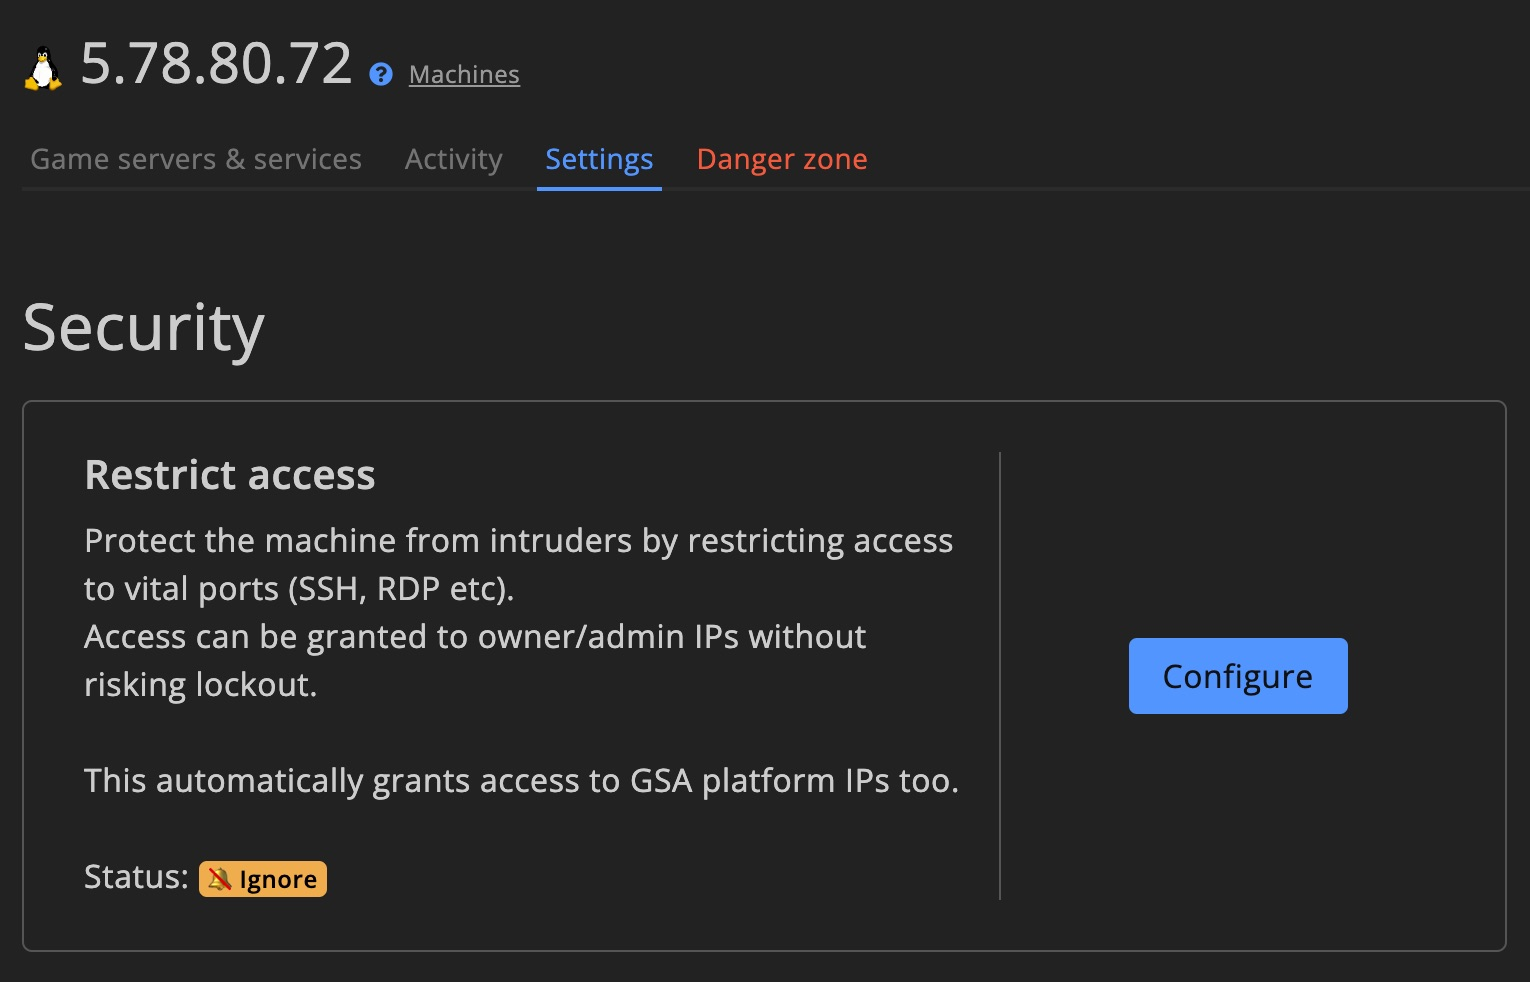
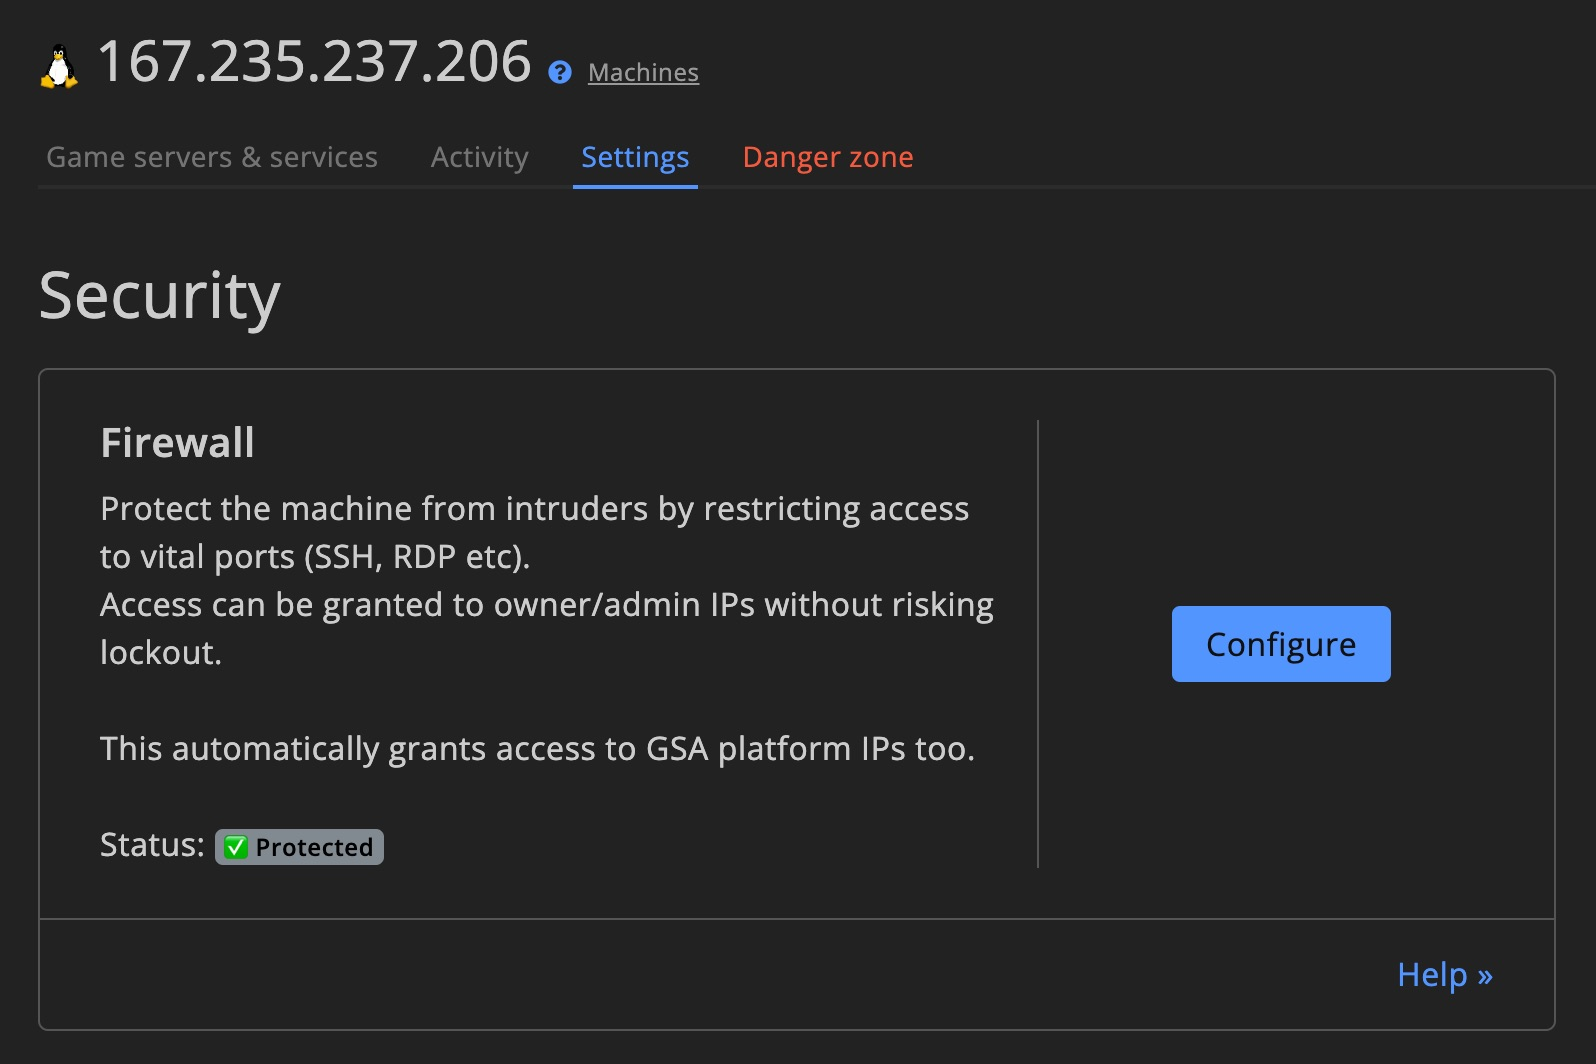
blueprint start + restrict acces -> firewall

diff --git a/Documentation/docs/dashboard/machines/getting_started.md b/Documentation/docs/dashboard/machines/getting_started.md
@@ -66,14 +66,14 @@ While we agree that having to enter Steam credentials and disabling Steam Guard 
 
 ![Machine settings - steam download credentials](/img/dashboard/machines/getting_started/machine_steam_download_credentials.jpg)
 
-### Restrict access
+### Firewall
 This will automatically configure the firewall on the machine and block any unwanted connections to the machine, without affecting player connections.
 You can add other IP addresses (like your home IP) to the list, which will let traffic from that IP address bypass the firewall rules.
 
-When you don't want to use this feature, you can select `Ignore` on the `Restrict access` settings. This will remove the security warning from the machine pages.
+When you don't want to use this feature, you can select `Ignore` on the `Firewall` settings. This will remove the security warning from the machine pages.
 
-![Machine settings - Restrict access 1](/img/dashboard/machines/getting_started/restrict_access_machine_actions_1.jpg)
-![Machine settings - Restrict access 2](/img/dashboard/machines/getting_started/restrict_access_machine_actions_2.jpg)
+![Machine settings - Firewall 1](/img/dashboard/machines/getting_started/restrict_access_machine_actions_1.jpg)
+![Machine settings - Firewall 2](/img/dashboard/machines/getting_started/restrict_access_machine_actions_2.jpg)
 
 ### Throttle / stagger actions
 In certain cases you may want to reduce the number of things that happen simultaneously on your machine. When too many things, like updating all game servers, happen simultaneously it might cause severe performance issues with a machine.

diff --git a/Documentation/docs/getting_started/dediconnect/requirements.md b/Documentation/docs/getting_started/dediconnect/requirements.md
@@ -21,7 +21,7 @@ Windows machine must [run the GSA install script](/getting_started/dediconnect/i
 
 ### Supported games
 
-[Visit the Connect DediConnect machine page](https://dash.gameserverapp.com/order/machine) for up-to-date information about Game support per Operating System.
+[Visit the Connect DediConnect machine page](https://dash.gameserverapp.com/order/machine) for up-to-date information about Game support per Operating System. Games not on the list might be available through [blueprints](/dashboard/blueprints).
 
 ![Connect machine 1](/img/getting_started/dediconnect/installation/game_support_os.jpg)
 

diff --git a/Documentation/docs/dashboard/blueprints.md b/Documentation/docs/dashboard/blueprints.md
@@ -1,0 +1,15 @@
+---
+title: Blueprints
+sidebar_position: 2.4
+---
+
+Customize how game servers work under the hood and control what fields are listed on [Config templates](/game_servers/config_templates).
+Blueprints can also be used to host games that are not officially supported by GSA.
+
+This feature is mostly intended for advanced users, with some experience hosting game servers.
+
+[Go to Blueprints >](https://dash.gameserverapp.com/server/blueprint)
+
+:::warning Work in progress
+This section is currently being developed.
+:::

diff --git a/Documentation/docs/getting_started/dediconnect/self-hosted_machine.md b/Documentation/docs/getting_started/dediconnect/self-hosted_machine.md
@@ -5,6 +5,8 @@ sidebar_position: 9999
 
 When using a dedicated server connected to a home / office network, there are a couple extra things you may need to configure.
 
+[Installation instructions>](/getting_started/dediconnect/installation)
+
 
 :::caution Check requirements
 Make sure your setup meets the [hardware requirements](/getting_started/dediconnect/requirements#hardware-specifications) and your machine runs a [supported Operating Systems (OS)](/getting_started/dediconnect/requirements#supported-operating-systems-os).
